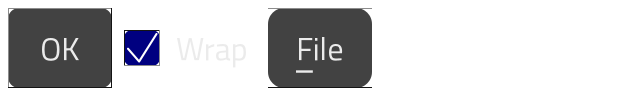
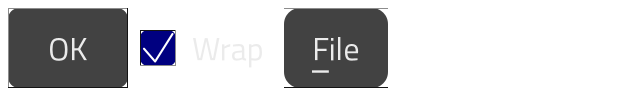
fix(widgets): default sizes and paddings scale with the display
Widgets measured themselves with unscaled pixels:
- the default widths of lists, trees, fields, sliders, spin boxes, combo
  boxes, status and title bars, scroll views and card lists;
- the button's label margin and the combo's arrow room;
- the calendar's header, the date field and the accordion gap;
- the popup menu's fallback row and the tool button inset.

At 1.75x they came out smaller than their text. They now go through
style.Dip; 1x is unchanged, and the 2x golden strip is updated after
checking it (the button keeps its 1x proportions).

Changed region(s): [[0.4062, 0.0625, 0.625, 0.9375], [0.0625, 0.0625, 0.2812, 0.9375]]

diff --git a/widgets/accordion.go b/widgets/accordion.go
@@ -4,6 +4,7 @@ import (
 	"github.com/codemodify/paintengine2d"
 	"github.com/codemodify/uitoolkit/layout"
 	"github.com/codemodify/uitoolkit/platform"
+	"github.com/codemodify/uitoolkit/style"
 	"github.com/codemodify/uitoolkit/widget"
 )
 
@@ -84,7 +85,7 @@ func (e *Expander) bodyPad() float32 {
 
 func (e *Expander) Measure(c layout.Constraints) paintengine2d.Point {
 	hh := e.headerH()
-	w := float32(160)
+	w := style.Dip(e.Look(), 160)
 	if c.HasMaxW() {
 		w = c.MaxW
 	}
@@ -99,7 +100,7 @@ func (e *Expander) Measure(c layout.Constraints) paintengine2d.Point {
 			}
 		}
 		sz := e.body.Measure(inner)
-		h += sz.Y + 6
+		h += sz.Y + style.Dip(e.Look(), 6)
 		need := sz.X + pad
 		if need > w {
 			w = need
@@ -200,7 +201,7 @@ func newExpanderHead(owner *Expander) *expanderHead {
 
 func (h *expanderHead) Measure(c layout.Constraints) paintengine2d.Point {
 	hh := h.owner.headerH()
-	w := float32(160)
+	w := style.Dip(h.Look(), 160)
 	if c.HasMaxW() {
 		w = c.MaxW
 	}

diff --git a/widgets/calendar.go b/widgets/calendar.go
@@ -101,9 +101,9 @@ func (c *Calendar) geometry() (head, wk, cw, ch float32) {
 	m := lk.Metrics()
 	head = m.ControlH
 	if head <= 0 {
-		head = 28
+		head = style.Dip(lk, 28)
 	}
-	wk = lk.MutedFont().Height() + 6
+	wk = lk.MutedFont().Height() + style.Dip(lk, 6)
 	b := c.LocalBounds()
 	cw = b.Dx() / 7
 	ch = (b.Dy() - head - wk - 4) / 6
@@ -368,7 +368,7 @@ func (f *DateField) Measure(c layout.Constraints) paintengine2d.Point {
 	if h <= 0 {
 		h = m.ControlH
 	}
-	w := style.ControlFontOf(lk, style.RoleCombo).Advance("0000-00-00") + m.Pad*2 + 40
+	w := style.ControlFontOf(lk, style.RoleCombo).Advance("0000-00-00") + m.Pad*2 + style.Dip(lk, 40)
 	return c.Constrain(paintengine2d.Pt(w, h))
 }
 

diff --git a/widgets/combobox.go b/widgets/combobox.go
@@ -171,14 +171,14 @@ func (c *ComboBox) Select(i int) {
 func (c *ComboBox) Measure(cons layout.Constraints) paintengine2d.Point {
 	lk := c.Look()
 	m := lk.Metrics()
-	w := float32(160)
+	w := style.Dip(lk, 160)
 	f := style.ControlFontOf(lk, style.RoleCombo)
 	for _, s := range c.Items {
 		tw := f.Advance(s)
 		if ink := f.InkWidth(s); ink > tw {
 			tw = ink
 		}
-		tw += 44
+		tw += style.Dip(lk, 44)
 		if tw > w {
 			w = tw
 		}
@@ -188,7 +188,7 @@ func (c *ComboBox) Measure(cons layout.Constraints) paintengine2d.Point {
 		if ink := f.InkWidth(c.Placeholder); ink > tw {
 			tw = ink
 		}
-		tw += 44
+		tw += style.Dip(lk, 44)
 		if tw > w {
 			w = tw
 		}

diff --git a/widgets/statusbar.go b/widgets/statusbar.go
@@ -3,6 +3,7 @@ package widgets
 import (
 	"github.com/codemodify/paintengine2d"
 	"github.com/codemodify/uitoolkit/layout"
+	"github.com/codemodify/uitoolkit/style"
 	"github.com/codemodify/uitoolkit/widget"
 )
 
@@ -52,7 +53,7 @@ func (s *StatusBar) barH() float32 {
 }
 
 func (s *StatusBar) Measure(c layout.Constraints) paintengine2d.Point {
-	w := float32(200)
+	w := style.Dip(s.Look(), 200)
 	if c.HasMaxW() {
 		w = c.MaxW
 	}

diff --git a/widgets/titlebar.go b/widgets/titlebar.go
@@ -3,6 +3,7 @@ package widgets
 import (
 	"github.com/codemodify/paintengine2d"
 	"github.com/codemodify/uitoolkit/layout"
+	"github.com/codemodify/uitoolkit/style"
 	"github.com/codemodify/uitoolkit/widget"
 )
 
@@ -48,7 +49,7 @@ func (t *TitleBar) barH() float32 {
 }
 
 func (t *TitleBar) Measure(c layout.Constraints) paintengine2d.Point {
-	w := float32(200)
+	w := style.Dip(t.Look(), 200)
 	if c.HasMaxW() {
 		w = c.MaxW
 	}

diff --git a/widgets/card.go b/widgets/card.go
@@ -125,7 +125,7 @@ func (l *CardList) Measure(c layout.Constraints) paintengine2d.Point {
 	if c.HasMaxH() && h > c.MaxH {
 		h = c.MaxH
 	}
-	w := float32(240)
+	w := style.Dip(l.Look(), 240)
 	if c.HasMaxW() {
 		w = c.MaxW
 	}
@@ -151,7 +151,7 @@ func (l *CardList) rowH() float32 {
 	if pad <= 0 {
 		pad = 6
 	}
-	min := font*3 + pad*3 + 12
+	min := font*3 + pad*3 + style.Dip(lk, 12)
 	if min > h {
 		h = min
 	}

diff --git a/widgets/button.go b/widgets/button.go
@@ -57,7 +57,7 @@ func NewButton(text string, onClick func()) *Button {
 func (b *Button) Measure(c layout.Constraints) paintengine2d.Point {
 	lk := b.Look()
 	m := lk.Metrics()
-	w := style.ControlFontOf(lk, style.RoleButton).Advance(b.Text) + m.Pad*2 + 16
+	w := style.ControlFontOf(lk, style.RoleButton).Advance(b.Text) + m.Pad*2 + style.Dip(lk, 16)
 	h := m.ControlH
 	return c.Constrain(paintengine2d.Pt(w, h))
 }

diff --git a/widgets/textfield.go b/widgets/textfield.go
@@ -106,7 +106,7 @@ func (t *TextField) SetCaretBlink(on bool) { t.blinkOn = on }
 
 func (t *TextField) Measure(c layout.Constraints) paintengine2d.Point {
 	h := style.FieldHeight(t.Look().Metrics())
-	return c.Constrain(paintengine2d.Pt(180, h))
+	return c.Constrain(paintengine2d.Pt(style.Dip(t.Look(), 180), h))
 }
 
 func (t *TextField) Arrange(r paintengine2d.Rect) { t.SetBounds(r) }

diff --git a/widgets/number.go b/widgets/number.go
@@ -86,7 +86,7 @@ func (n *NumberField) SetValue(v float64) {
 
 func (n *NumberField) Measure(c layout.Constraints) paintengine2d.Point {
 	h := style.FieldHeight(n.Look().Metrics())
-	return c.Constrain(paintengine2d.Pt(120, h))
+	return c.Constrain(paintengine2d.Pt(style.Dip(n.Look(), 120), h))
 }
 
 func (n *NumberField) spinnerW() float32 {

diff --git a/widgets/slider.go b/widgets/slider.go
@@ -100,7 +100,7 @@ func (s *Slider) Measure(c layout.Constraints) paintengine2d.Point {
 	case TicksBoth:
 		h += 2 * s.tickBand()
 	}
-	return c.Constrain(paintengine2d.Pt(160, h))
+	return c.Constrain(paintengine2d.Pt(style.Dip(s.Look(), 160), h))
 }
 
 func (s *Slider) Arrange(r paintengine2d.Rect) { s.SetBounds(r) }

diff --git a/widgets/scroll.go b/widgets/scroll.go
@@ -69,7 +69,7 @@ func (s *ScrollView) Measure(c layout.Constraints) paintengine2d.Point {
 		}
 		s.content = s.child.Measure(layout.Constraints{MaxW: cw, MaxH: -1})
 	}
-	w, h := s.content.X+g, float32(160)
+	w, h := s.content.X+g, style.Dip(s.Look(), 160)
 	if c.HasMaxH() {
 		h = c.MaxH
 	}

diff --git a/internal/uitest/golden_test.go b/internal/uitest/golden_test.go
@@ -9,7 +9,7 @@ import (
 // prints the new values — do not silently accept a dirty-rect glyph change.
 var chromeStripHash = map[float32]uint64{
 	1: 0x2080c72771f4446c,
-	2: 0x62cee790388b5867,
+	2: 0x38a65979f0e0ca7,
 }
 
 func TestChromeStripGolden(t *testing.T) {
